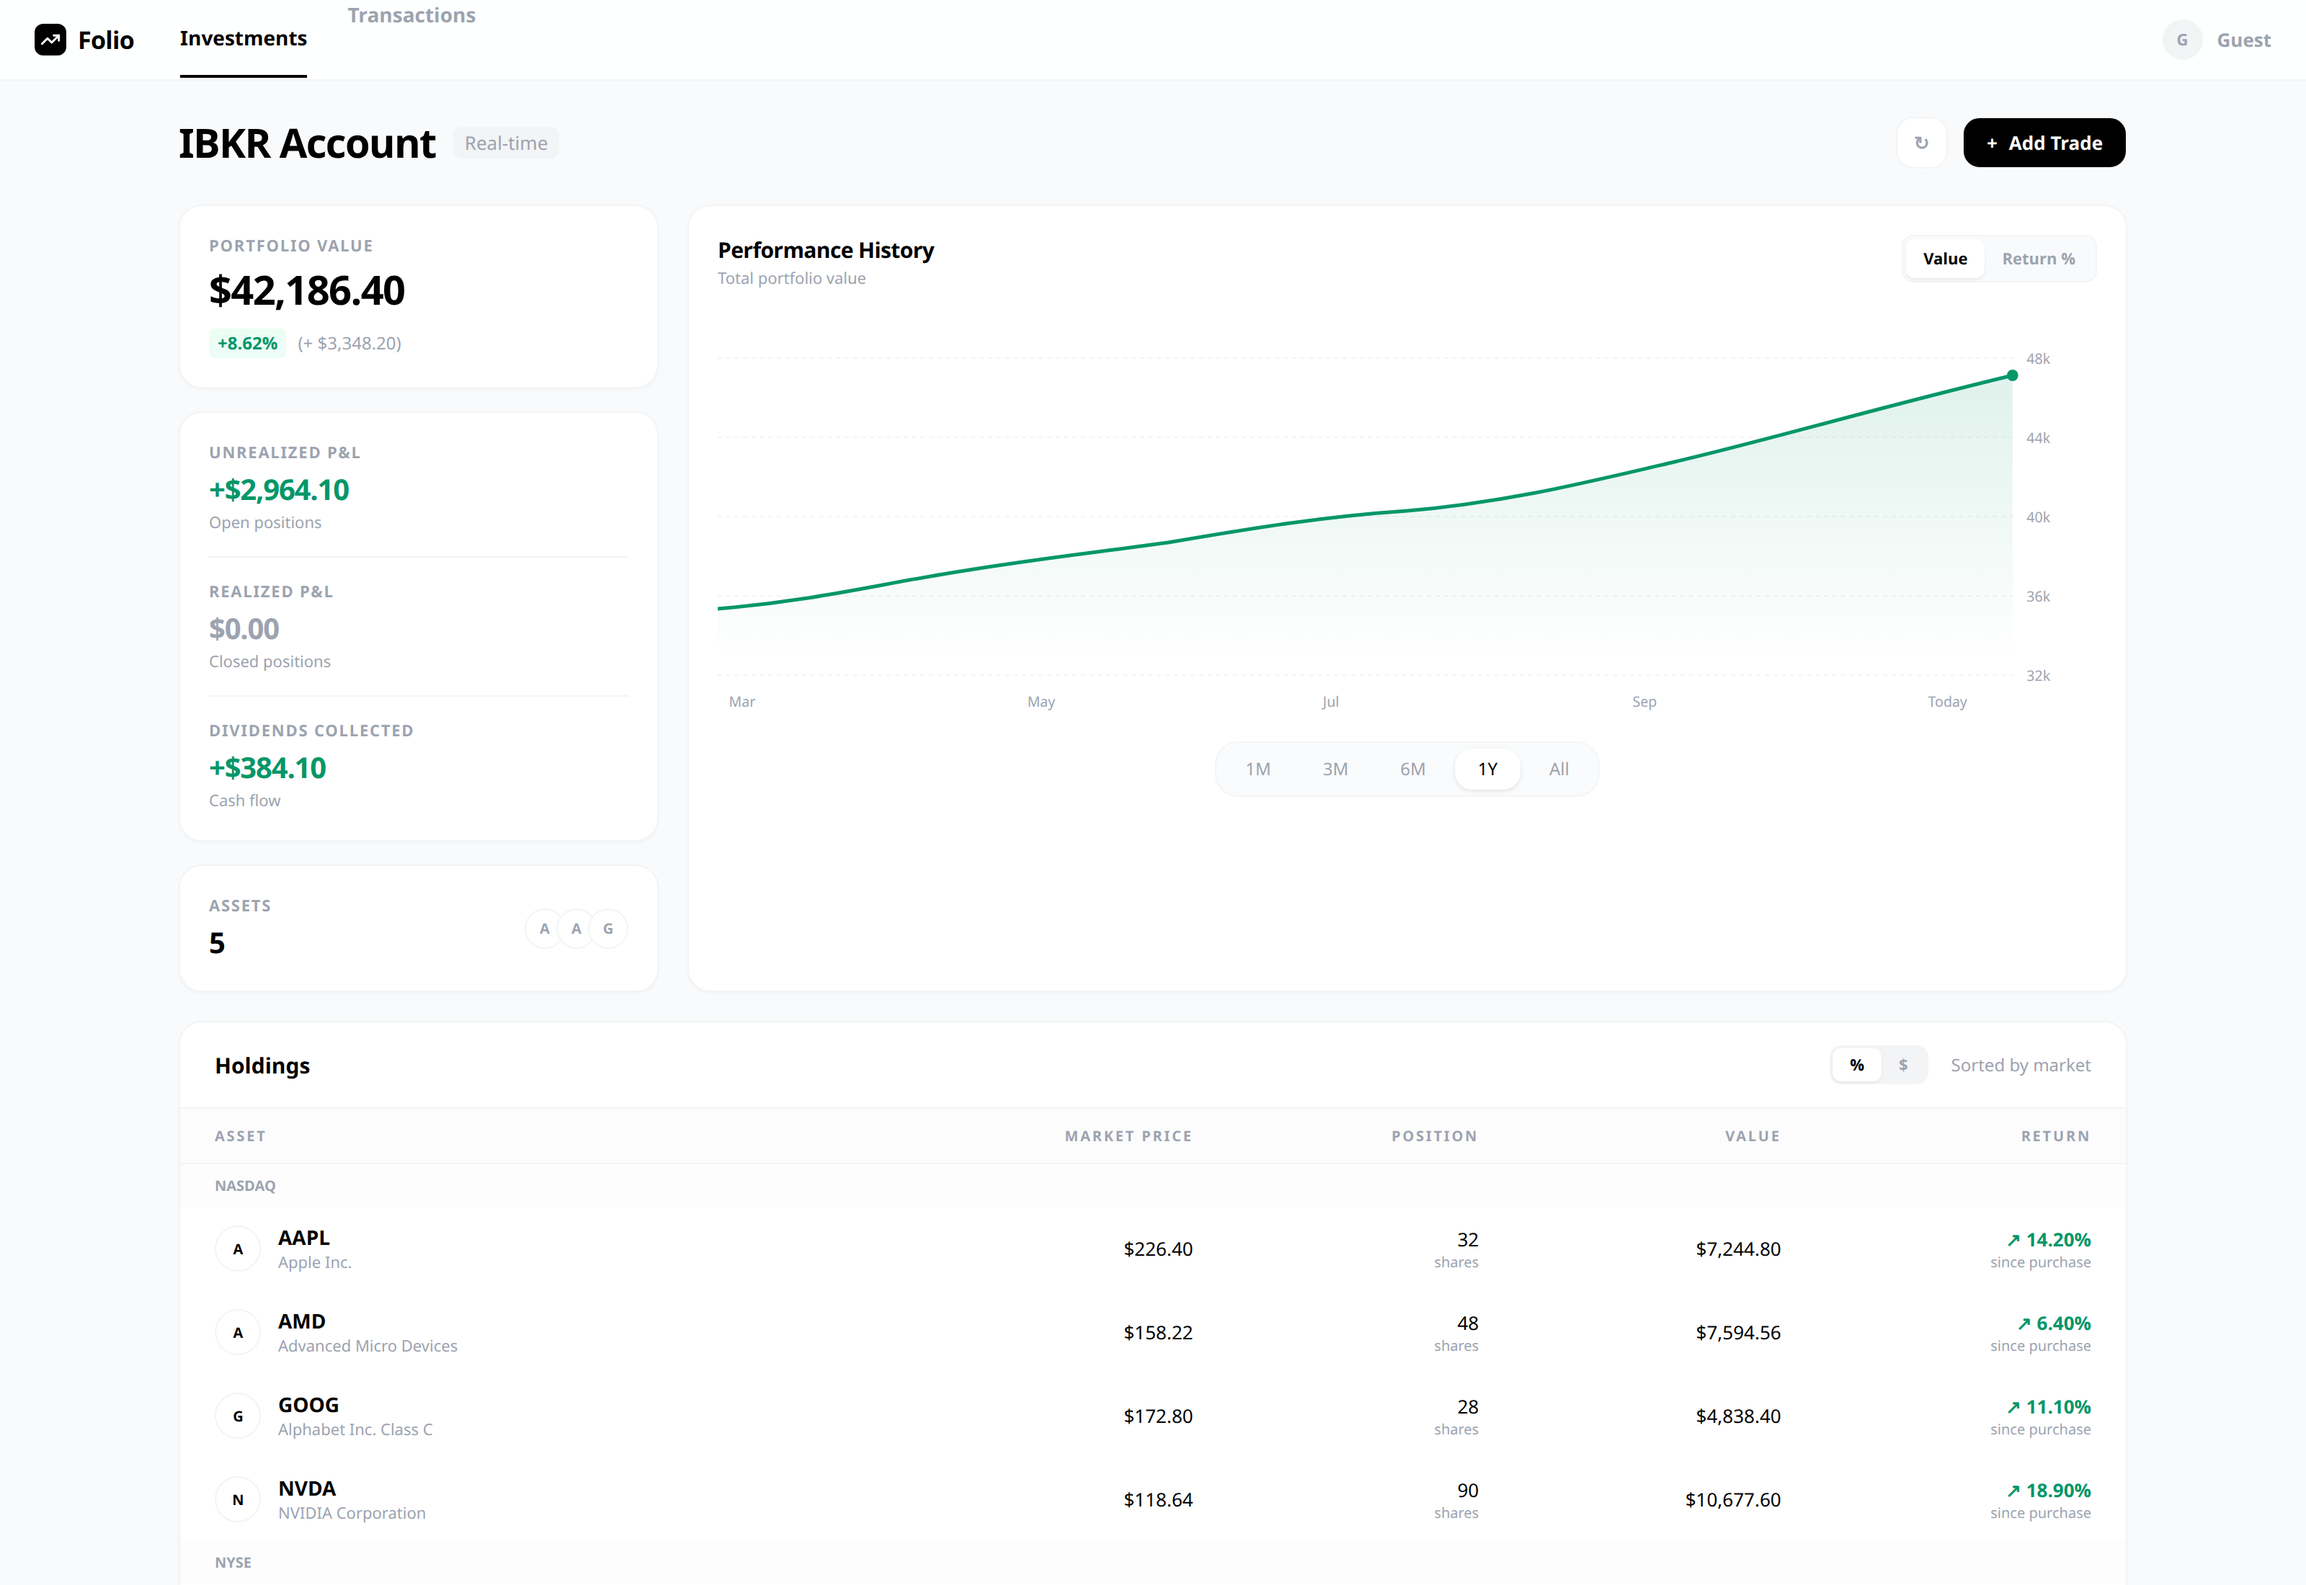
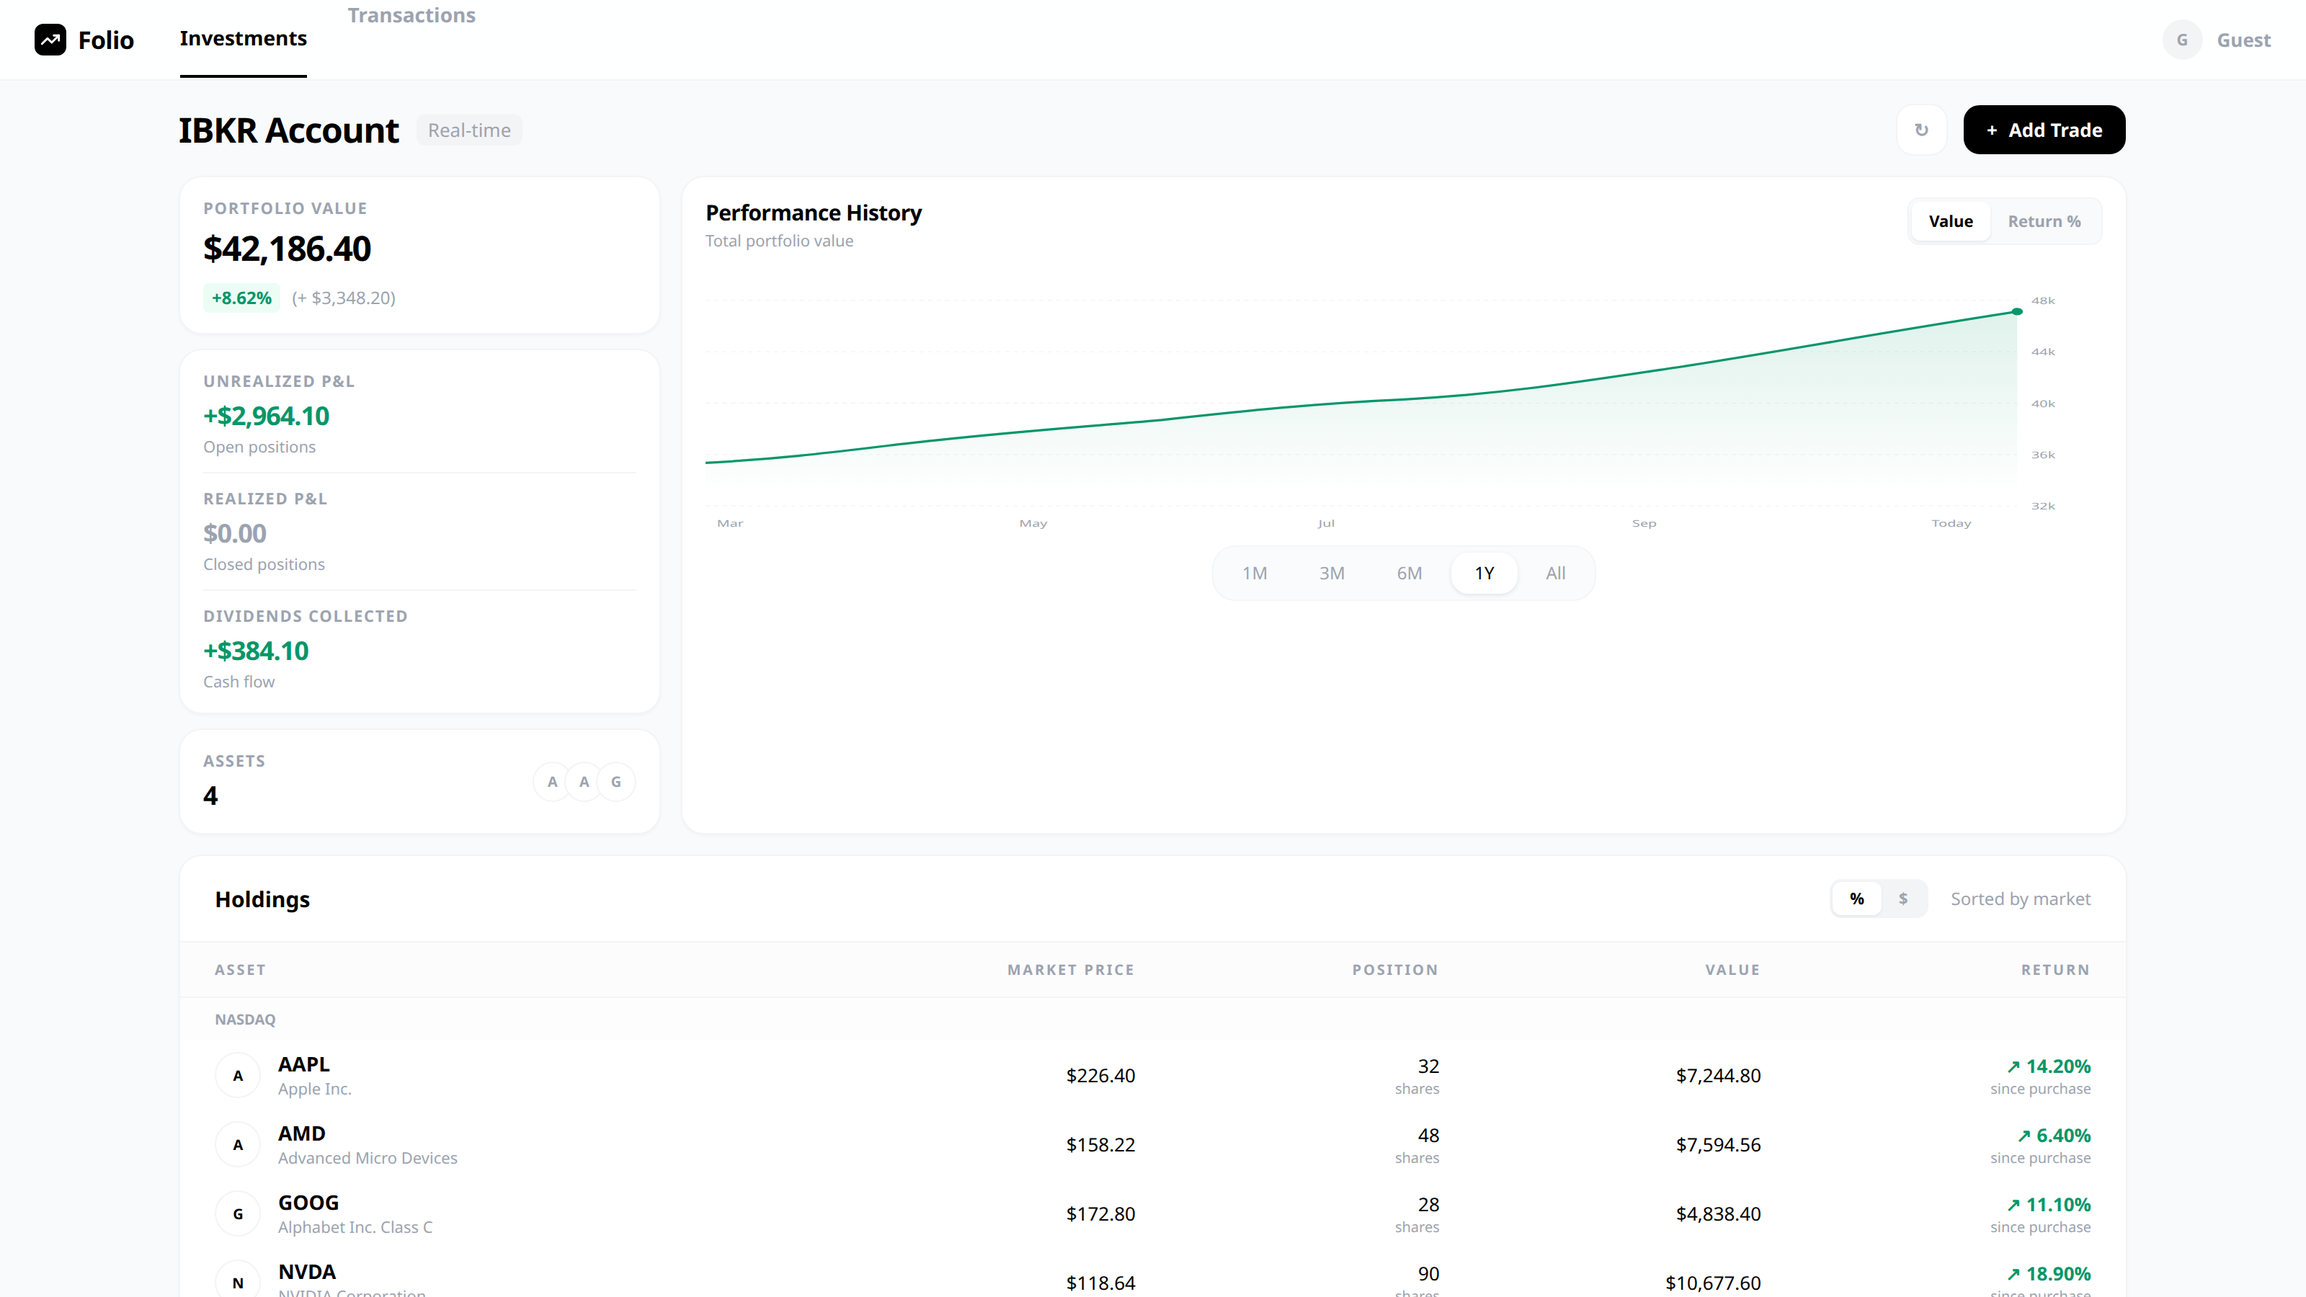
Fit the dashboard preview into a 16:9 landing crop.
Keep totals, the performance chart, and four holdings visible inside the AppShowcase frame without placeholder copy.

diff --git a/scripts/dashboard-preview.html b/scripts/dashboard-preview.html
@@ -24,7 +24,7 @@
       font-family: -apple-system, BlinkMacSystemFont, "Segoe UI", Roboto, "Helvetica Neue", Arial, sans-serif;
       -webkit-font-smoothing: antialiased;
     }
-    body { min-height: 1000px; }
+    body { height: 900px; overflow: hidden; }
     header {
       height: 56px;
       display: flex;
@@ -50,9 +50,9 @@
       border: 1px solid var(--border-subtle); display: flex; align-items: center; justify-content: center;
       font-size: 11px; font-weight: 700;
     }
-    main { max-width: 1400px; margin: 0 auto; padding: 24px; }
-    .title-row { display: flex; justify-content: space-between; align-items: center; margin-bottom: 24px; }
-    h1 { font-size: 28px; letter-spacing: -0.03em; }
+    main { max-width: 1400px; margin: 0 auto; padding: 16px 24px 12px; }
+    .title-row { display: flex; justify-content: space-between; align-items: center; margin-bottom: 14px; }
+    h1 { font-size: 24px; letter-spacing: -0.03em; }
     .live { font-size: 13px; font-weight: 500; color: var(--text-secondary); background: var(--bg-element-hover); padding: 2px 8px; border-radius: 6px; margin-left: 12px; }
     .actions { display: flex; gap: 10px; }
     .icon-btn, .primary-btn {
@@ -61,17 +61,17 @@
     }
     .icon-btn { width: 36px; background: var(--bg-card); color: var(--text-secondary); }
     .primary-btn { padding: 0 16px; background: #000; color: #fff; gap: 8px; }
-    .grid { display: grid; grid-template-columns: 3fr 9fr; gap: 20px; margin-bottom: 20px; }
+    .grid { display: grid; grid-template-columns: 3fr 9fr; gap: 14px; margin-bottom: 14px; }
     .card { background: var(--bg-card); border: 1px solid var(--border-subtle); border-radius: 16px; box-shadow: 0 1px 2px rgba(0,0,0,0.03); }
-    .stack { display: flex; flex-direction: column; gap: 16px; }
-    .pad { padding: 20px; }
+    .stack { display: flex; flex-direction: column; gap: 10px; }
+    .pad { padding: 14px 16px; }
     .label { font-size: 11px; font-weight: 700; letter-spacing: 0.08em; text-transform: uppercase; color: var(--text-secondary); margin-bottom: 4px; }
-    .value { font-size: 28px; font-weight: 700; letter-spacing: -0.03em; font-variant-numeric: tabular-nums; }
-    .subvalue { font-size: 20px; font-weight: 700; letter-spacing: -0.03em; font-variant-numeric: tabular-nums; }
+    .value { font-size: 24px; font-weight: 700; letter-spacing: -0.03em; font-variant-numeric: tabular-nums; }
+    .subvalue { font-size: 18px; font-weight: 700; letter-spacing: -0.03em; font-variant-numeric: tabular-nums; }
     .chip { font-size: 12px; font-weight: 700; color: var(--gain); background: var(--gain-bg); padding: 2px 6px; border-radius: 4px; }
     .muted { font-size: 12px; color: var(--text-secondary); font-weight: 500; }
     .tiny { font-size: 11px; color: var(--text-secondary); font-weight: 500; margin-top: 2px; }
-    .divider { height: 1px; background: var(--border-subtle); margin: 16px 0; }
+    .divider { height: 1px; background: var(--border-subtle); margin: 10px 0; }
     .assets-row { display: flex; justify-content: space-between; align-items: center; }
     .avatars { display: flex; }
     .avatars span {
@@ -85,8 +85,8 @@
     .seg { display: flex; background: var(--bg-element); border: 1px solid var(--border-subtle); border-radius: 8px; padding: 2px; }
     .seg b { font-size: 11px; padding: 6px 12px; border-radius: 6px; color: var(--text-secondary); font-weight: 700; }
     .seg b.on { background: #fff; color: #000; box-shadow: 0 1px 2px rgba(0,0,0,0.08); }
-    svg.chart { width: 100%; height: 290px; display: block; }
-    .ranges { display: flex; justify-content: center; margin-top: 16px; }
+    svg.chart { width: 100%; height: 188px; display: block; }
+    .ranges { display: flex; justify-content: center; margin-top: 8px; }
     .range { display: flex; background: rgba(249,250,251,0.8); border: 1px solid rgba(243,244,246,0.8); border-radius: 16px; padding: 4px; gap: 4px; }
     .range span { padding: 6px 16px; font-size: 12px; font-weight: 500; color: var(--text-secondary); border-radius: 12px; }
     .range span.on { background: #fff; color: #000; box-shadow: 0 1px 3px rgba(0,0,0,0.1); }
@@ -96,7 +96,7 @@
       color: var(--text-secondary); padding: 12px 24px; background: rgba(249,250,251,0.5); border-bottom: 1px solid var(--border-subtle);
     }
     th.r, td.r { text-align: right; }
-    td { padding: 12px 24px; font-size: 13px; font-variant-numeric: tabular-nums; }
+    td { padding: 7px 24px; font-size: 13px; font-variant-numeric: tabular-nums; }
     .market td { padding: 8px 24px; font-size: 10px; font-weight: 700; color: var(--text-secondary); background: rgba(249,250,251,0.35); }
     .asset { display: flex; align-items: center; gap: 12px; }
     .dot {
@@ -176,7 +176,7 @@
         <div class="card pad assets-row">
           <div>
             <div class="label">Assets</div>
-            <div class="subvalue">5</div>
+            <div class="subvalue">4</div>
           </div>
           <div class="avatars">
             <span>A</span>
@@ -275,14 +275,6 @@
             <td class="r">90<div class="shares">shares</div></td>
             <td class="r">$10,677.60</td>
             <td class="r"><span class="gain">↗ 18.90%</span><div class="shares">since purchase</div></td>
-          </tr>
-          <tr class="market"><td colspan="5">NYSE</td></tr>
-          <tr>
-            <td><div class="asset"><div class="dot">V</div><div><div class="ticker">VTI</div><div class="name">Vanguard Total Stock Market ETF</div></div></div></td>
-            <td class="r">$272.10</td>
-            <td class="r">43<div class="shares">shares</div></td>
-            <td class="r">$11,700.30</td>
-            <td class="r"><span class="gain">↗ 4.80%</span><div class="shares">since purchase</div></td>
           </tr>
         </tbody>
         <tfoot>
